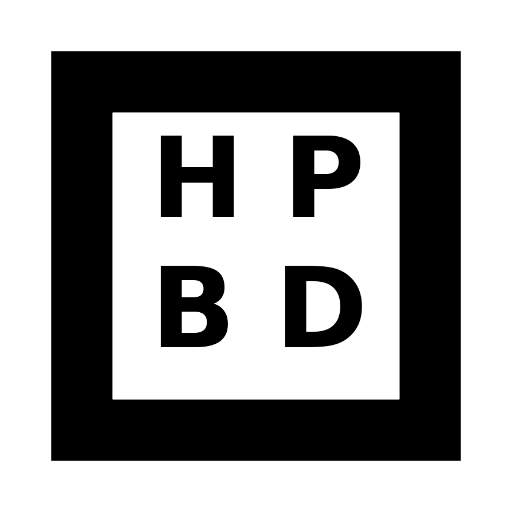
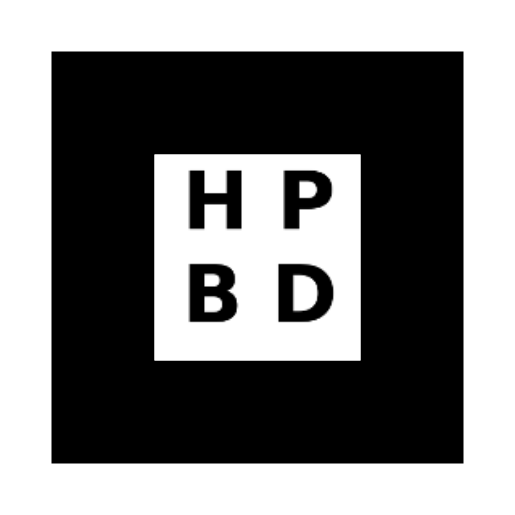
enable custom marker

Changed region(s): [[0.2188, 0.2188, 0.7812, 0.7812], [0.0938, 0.0938, 0.9062, 0.9062]]

diff --git a/index.html b/index.html
@@ -11,7 +11,7 @@
         <a-asset-item id="cake" src="cake.gltf"></a-asset-item>
       </a-assets>
       <a-entity camera></a-entity>
-      <a-marker type="pattern" patternurl="pattern-hpbd.patt">
+      <a-marker type='pattern' url='pattern-hpbd.patt'>
           <script>
             var parameters = location.search.substring(1).split("&");
             var temp = parameters[0].split("=");
